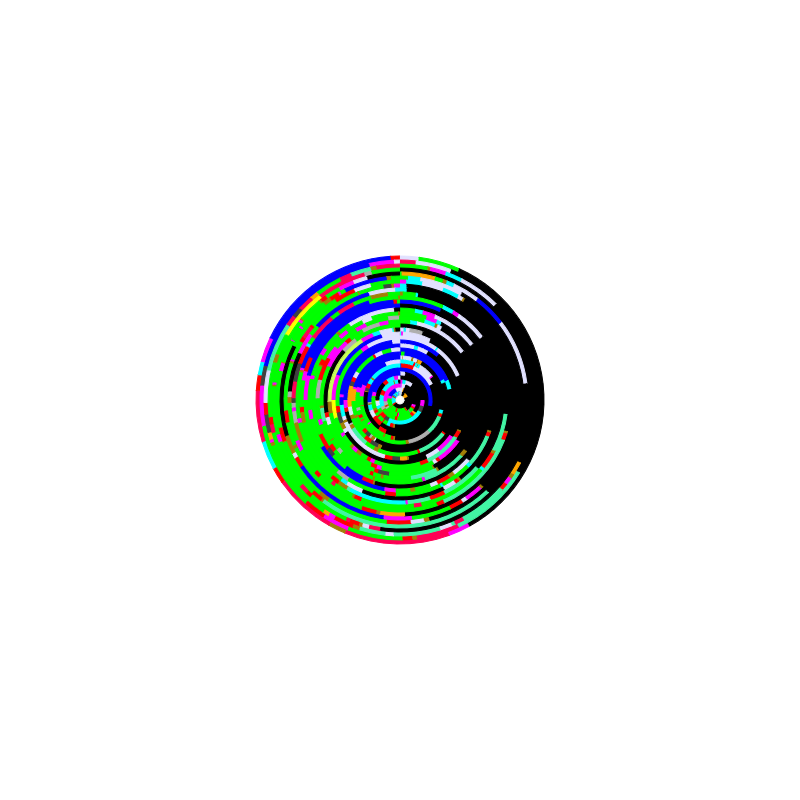
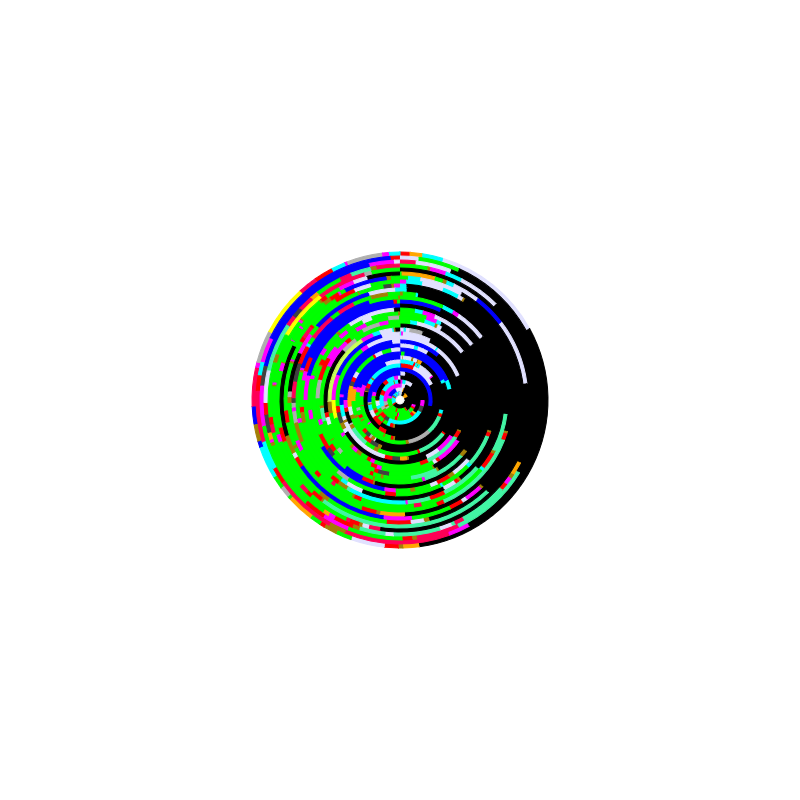
added 3/22

diff --git a/index.html b/index.html
@@ -15,13 +15,13 @@
 		</div>
 	-->
 		<div class="inputDiv">
-			<label for="cRad">Pie Radius</label><input name="cRad" id="cRad" type="number" min="0.1" max="50" step="1" value="148">
+			<label for="cRad">Pie Radius</label><input name="cRad" id="cRad" type="number" min="0.1" max="50" step="1" value="152">
 		</div>
 		<div class="inputDiv">
-			<label for="sRad">Spiral Start Radius</label><input name="sRad" id="sRad" type="number" min="0.1" max="50" step="1" value="216">
+			<label for="sRad">Spiral Start Radius</label><input name="sRad" id="sRad" type="number" min="0.1" max="50" step="1" value="222">
 		</div>
 		<div class="inputDiv">
-			<label for="eRad">Spiral End Radius</label><input name="eRad" id="eRad" type="number" min="0.1" max="50" step="1" value="222">
+			<label for="eRad">Spiral End Radius</label><input name="eRad" id="eRad" type="number" min="0.1" max="50" step="1" value="228">
 		</div>
 		<div id="buttonDiv">
 			<label>Open .png <input type="file" id="impBtn" name="impBtn" accept=".png" onchange="importCanvas();"></label>
@@ -58,24 +58,8 @@
 			var ctx2 = canvas2.getContext("2d");
 
 			var myDay = [
-			['00:15','eating'],
-			['00:35','reading'],
-			['01:08','side work'],
-			['04:04','TV'],
-			['11:30','sleep'],
-			['11:55','reading'],
-			['12:02','bathroom'],
-			['12:24','eating'],
-			['13:17','TV'],
-			['13:42','main work'],
-			['14:03','bathroom'],
-			['14:11','eating'],
-			['14:29','main work'],
-			['15:12','reading'],
-			['15:17','main work'],
-			['15:34','admin'],
-			['15:54','main work'],
-			['','side work'],
+			['01:27','side work'],
+			['','TV'],
 			];
 
 			var categories = {
